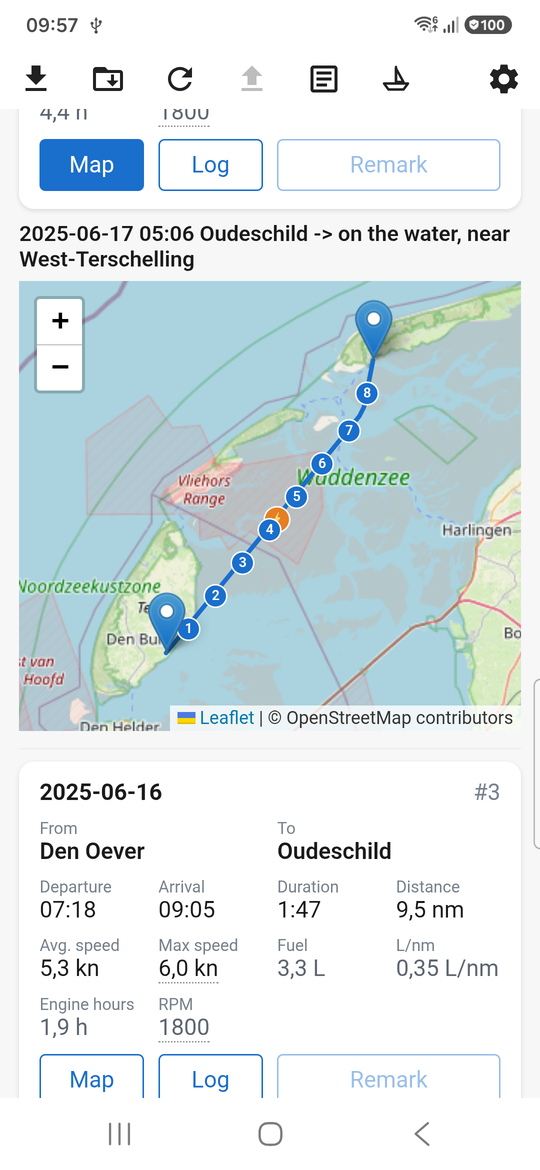
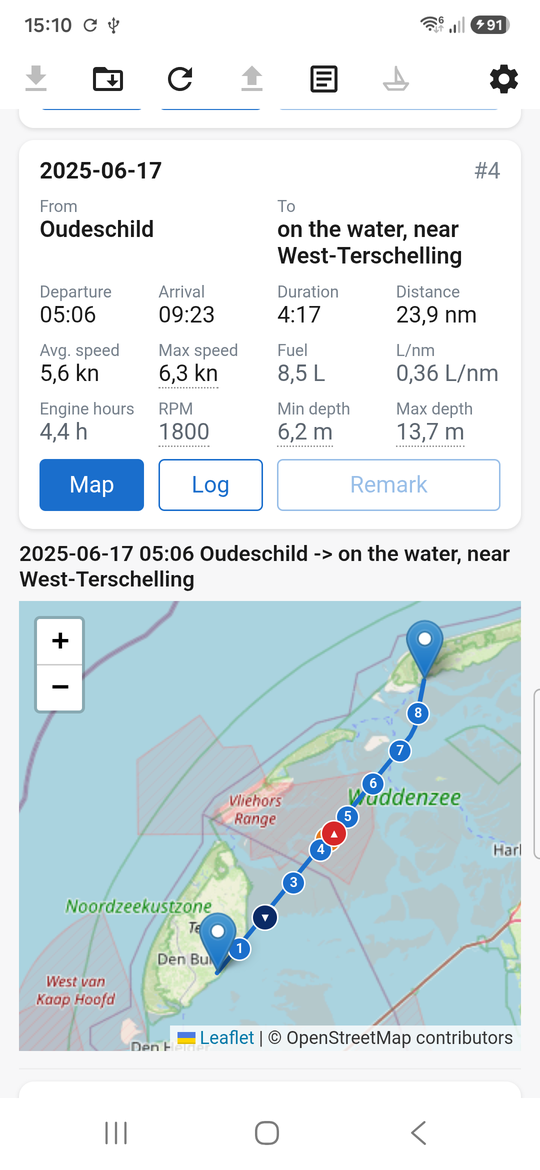
README and screenshots: the trip map marks the top speed, the shallowest and the deepest point, and the log has a depth column (with the demo data, shown from version 1.1.17)

diff --git a/README.md b/README.md
@@ -29,12 +29,12 @@ Taken on a phone in English, with the fictional trips of the demo logbook (a mad
 one -- generated with `examples/generate_demo_logbook.py` in the [nmea2log](https://github.com/Ayuus/nmea2log) repo).
 
 <p>
-<img src="docs/screenshots/map-trip.png" width="230" alt="The map of one trip, opened from the Map button in the trip list">
-<img src="docs/screenshots/trip-log.png" width="230" alt="The log of one trip, opened from the Log button">
+<img src="docs/screenshots/map-trip.png" width="230" alt="The map of one trip, opened from the Map button in the trip list, with its top speed, shallowest point and deepest point marked">
+<img src="docs/screenshots/trip-log.png" width="230" alt="The log of one trip, opened from the Log button, with the depth next to the position">
 <img src="docs/screenshots/map-overview.png" width="230" alt="The overview map of the year, opened from the Overview link">
 </p>
 
-*The maps in the logbook (OpenStreetMap): the **Map** button of a trip shows its route -- its **Log** button the positions, course and speed along the way, with the water temperature and the boat's motion -- the **Overview** link of a year puts all trips of that year on one map.*
+*The maps in the logbook (OpenStreetMap): the **Map** button of a trip shows its route, with the top speed (orange), the shallowest point (red) and the deepest point (dark blue) marked -- its **Log** button the positions, depth, course and speed along the way, with the water temperature and the boat's motion -- the **Overview** link of a year puts all trips of that year on one map.*
 
 <p>
 <img src="docs/screenshots/logbook.png" width="230" alt="The logbook">
